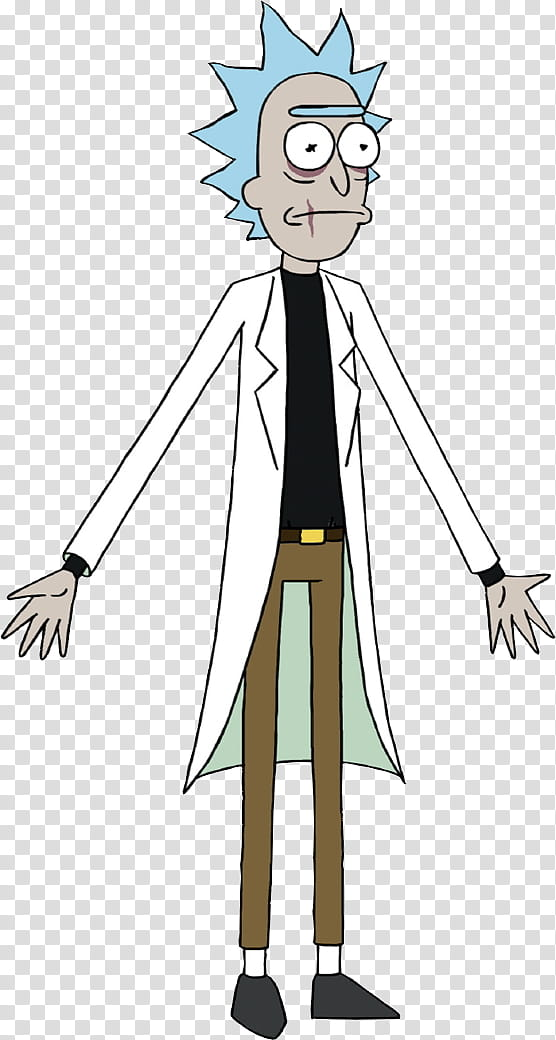
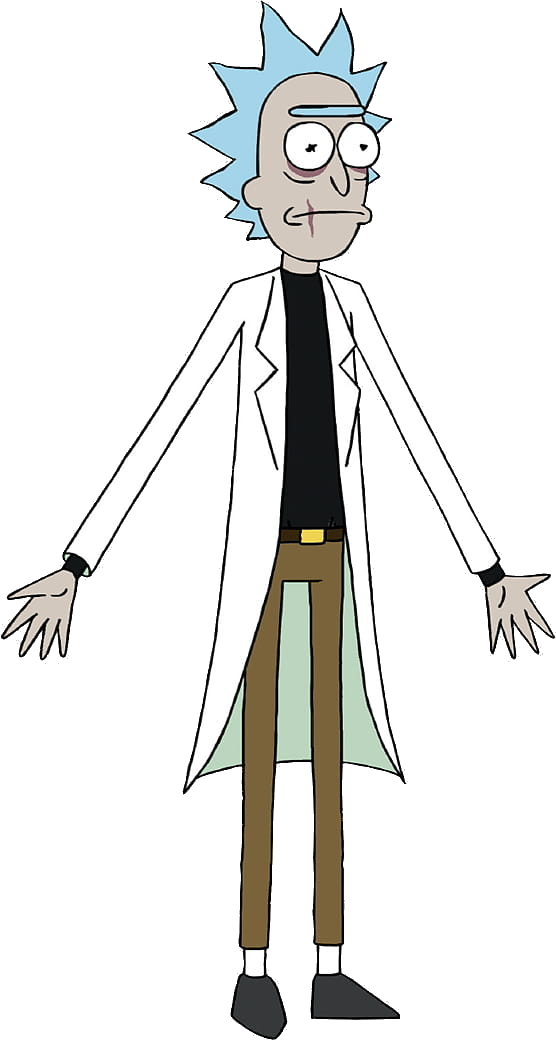
Update skills, Remotion components, and character assets
- Refine script_generator, tts_engine, video_renderer, drive_uploader skills
- Update CharacterOverlay and ParkourBackground Remotion components
- Update remotion.config.ts settings
- Update Rick & Morty character PNGs
- Update topics list
- Ignore remotion/public/audio/ generated audio sessions

diff --git a/remotion/src/components/CharacterOverlay.tsx b/remotion/src/components/CharacterOverlay.tsx
@@ -1,34 +1,12 @@
 import React from "react";
-import {
-  AbsoluteFill,
-  Img,
-  staticFile,
-  useCurrentFrame,
-  useVideoConfig,
-  spring,
-} from "remotion";
+import { AbsoluteFill, Img, staticFile } from "remotion";
 
 interface Props {
   character: "rick" | "morty";
   emotion: string;
 }
 
-export const CharacterOverlay: React.FC<Props> = ({ character, emotion }) => {
-  const frame = useCurrentFrame();
-  const { fps } = useVideoConfig();
-
-  const isTalking = emotion !== "idle";
-
-  // Konuşma bobbing animasyonu
-  const bobY = spring({
-    frame: frame % 12,
-    fps,
-    from: 0,
-    to: isTalking ? -10 : 0,
-    durationInFrames: 6,
-    config: { damping: 8 },
-  });
-
+export const CharacterOverlay: React.FC<Props> = ({ character }) => {
   const imgSrc = staticFile(`characters/${character}.png`);
 
   const isRick = character === "rick";
@@ -36,17 +14,11 @@ export const CharacterOverlay: React.FC<Props> = ({ character, emotion }) => {
   return (
     <AbsoluteFill
       style={{
-        justifyContent: "flex-end",
-        alignItems: "flex-end",
-        flexDirection: "row",
-        bottom: 0,
         top: "auto",
         height: "auto",
-        position: "absolute",
+        bottom: 80,
         left: isRick ? 10 : undefined,
         right: isRick ? undefined : 10,
-        bottom: 80,
-        transform: `translateY(${bobY}px)`,
       }}
     >
       <Img
@@ -54,7 +26,6 @@ export const CharacterOverlay: React.FC<Props> = ({ character, emotion }) => {
         style={{
           height: 700,
           objectFit: "contain",
-          // Morty'yi yatay çevir
           transform: isRick ? "none" : "scaleX(-1)",
         }}
       />

diff --git a/remotion/src/components/ParkourBackground.tsx b/remotion/src/components/ParkourBackground.tsx
@@ -1,22 +1,14 @@
 import React from "react";
-import { AbsoluteFill, Loop, Video, staticFile, useVideoConfig } from "remotion";
-
-// Loop için sabit bir segment uzunluğu (300 frame = 10sn @ 30fps)
-// Asıl footage daha uzunsa sorun yok; daha kısaysa tekrar başlar
-const LOOP_SEGMENT_FRAMES = 300;
+import { AbsoluteFill, Video, staticFile } from "remotion";
 
 export const ParkourBackground: React.FC<{ file: string }> = ({ file }) => {
-  const { durationInFrames } = useVideoConfig();
-
   return (
     <AbsoluteFill>
-      <Loop durationInFrames={LOOP_SEGMENT_FRAMES}>
-        <Video
-          src={staticFile(`footage/${file}`)}
-          style={{ width: "100%", height: "100%", objectFit: "cover" }}
-          durationInFrames={durationInFrames}
-        />
-      </Loop>
+      <Video
+        src={staticFile(`footage/${file}`)}
+        style={{ width: "100%", height: "100%", objectFit: "cover" }}
+        loop
+      />
     </AbsoluteFill>
   );
 };

diff --git a/remotion/remotion.config.ts b/remotion/remotion.config.ts
@@ -1,5 +1,5 @@
 import { Config } from "@remotion/cli/config";
 
-Config.setVideoImageFormat("jpeg");
+Config.setVideoImageFormat("png");
 Config.setOverwriteOutput(true);
 Config.setConcurrency(4);

diff --git a/skills/drive_uploader.py b/skills/drive_uploader.py
@@ -1,18 +1,42 @@
 """
 Drive Uploader — Google Drive'a video yükleme.
-Google Drive Python SDK (google-api-python-client) kullanır.
+Service Account JSON kullanır — tarayıcı açmaz, OAuth gerektirmez.
+
+Kurulum:
+  1. Google Cloud Console → IAM & Admin → Service Accounts → Create
+  2. JSON key indir → service_account.json olarak proje köküne kaydet
+  3. Drive klasörünü service account e-postasıyla paylaş (Editor yetkisi)
 """
 
 import os
 import json
 import argparse
 from pathlib import Path
-from datetime import datetime
 
 from dotenv import load_dotenv
 from loguru import logger
 
 load_dotenv()
+
+SERVICE_ACCOUNT_FILE = Path(__file__).parent.parent / "service_account.json"
+SCOPES = ["https://www.googleapis.com/auth/drive.file"]
+
+
+def _get_service():
+    from googleapiclient.discovery import build
+    from google.oauth2 import service_account
+
+    if not SERVICE_ACCOUNT_FILE.exists():
+        raise FileNotFoundError(
+            f"service_account.json bulunamadı: {SERVICE_ACCOUNT_FILE}\n"
+            "Google Cloud Console → IAM & Admin → Service Accounts → Create → Keys → Add Key → JSON\n"
+            "İndirilen dosyayı service_account.json olarak proje köküne kaydet."
+        )
+
+    creds = service_account.Credentials.from_service_account_file(
+        str(SERVICE_ACCOUNT_FILE), scopes=SCOPES
+    )
+    return build("drive", "v3", credentials=creds)
 
 
 def upload_to_drive(
@@ -24,14 +48,7 @@ def upload_to_drive(
     Videoyu Google Drive'a yükle.
     Dönüş: {"file_id": "...", "web_link": "...", "name": "..."}
     """
-    try:
-        from google.oauth2 import service_account
-        from googleapiclient.discovery import build
-        from googleapiclient.http import MediaFileUpload
-    except ImportError:
-        raise ImportError(
-            "Google Drive SDK eksik. Kur: pip install google-api-python-client google-auth"
-        )
+    from googleapiclient.http import MediaFileUpload
 
     video_path = Path(video_path)
     if not video_path.exists():
@@ -44,15 +61,7 @@ def upload_to_drive(
     if filename is None:
         filename = video_path.name
 
-    # Service account credentials
-    creds_path = os.environ.get("GOOGLE_SERVICE_ACCOUNT_JSON", "service_account.json")
-
-    creds = service_account.Credentials.from_service_account_file(
-        creds_path,
-        scopes=["https://www.googleapis.com/auth/drive.file"],
-    )
-
-    service = build("drive", "v3", credentials=creds)
+    service = _get_service()
 
     file_metadata = {
         "name": filename,
@@ -63,10 +72,11 @@ def upload_to_drive(
         str(video_path),
         mimetype="video/mp4",
         resumable=True,
-        chunksize=5 * 1024 * 1024,  # 5MB chunk
+        chunksize=5 * 1024 * 1024,
     )
 
-    logger.info(f"Drive'a yükleniyor: {filename} ({video_path.stat().st_size / 1024 / 1024:.1f} MB)")
+    size_mb = video_path.stat().st_size / 1024 / 1024
+    logger.info(f"Drive'a yükleniyor: {filename} ({size_mb:.1f} MB)")
 
     request = service.files().create(
         body=file_metadata,

diff --git a/skills/video_renderer.py b/skills/video_renderer.py
@@ -5,7 +5,7 @@ Girdi: TTS ile güncellenmiş script JSON, session ID
 """
 
 import json
-import os
+import math
 import subprocess
 import argparse
 from pathlib import Path
@@ -24,31 +24,30 @@ REMOTION_DIR = BASE_DIR / "remotion"
 FPS = 30
 
 
-def sec_to_frames(sec: float) -> int:
-    return round(sec * FPS)
-
-
 def prepare_props(script: dict, session_id: str) -> dict:
     """Script'e frame bilgilerini ekle, Remotion props JSON'ını hazırla."""
     lines = []
-    cumulative = 0.0
+    cumulative_frames = 0
 
-    # Footage dosyasını otomatik seç
     footage_dir = REMOTION_DIR / "public" / "footage"
     footage_files = list(footage_dir.glob("*.mp4"))
     footage_file = footage_files[0].name if footage_files else "parkour_001.mp4"
 
     for line in script["lines"]:
         updated = dict(line)
-        updated["startFrame"] = sec_to_frames(cumulative)
-        updated["durationFrames"] = sec_to_frames(line["duration"])
-        cumulative += line["duration"]
+        # ceil() ile ses dosyası sonunda kesilmez; tam sayı birikimi ile float kayması olmaz
+        duration_frames = math.ceil(line["duration"] * FPS)
+        updated["startFrame"] = cumulative_frames
+        updated["durationFrames"] = duration_frames
+        cumulative_frames += duration_frames
         lines.append(updated)
+
+    total_duration_sec = cumulative_frames / FPS
 
     return {
         "sessionId": session_id,
         "lines": lines,
-        "totalDurationSec": script["total_duration"],
+        "totalDurationSec": total_duration_sec,
         "footageFile": footage_file,
     }
 
@@ -58,7 +57,7 @@ def render_video(script: dict, session_id: str, output_path: Path = None) -> Pat
         output_path = OUTPUT_VIDEOS_DIR / f"{session_id}.mp4"
 
     props = prepare_props(script, session_id)
-    total_frames = sec_to_frames(props["totalDurationSec"])
+    total_frames = math.ceil(props["totalDurationSec"] * FPS)
 
     props_file = Path(f"/tmp/{session_id}_props.json")
     with open(props_file, "w", encoding="utf-8") as f:
@@ -82,7 +81,7 @@ def render_video(script: dict, session_id: str, output_path: Path = None) -> Pat
 
     logger.debug(f"Komut: {' '.join(cmd)}")
 
-    result = subprocess.run(
+    subprocess.run(
         cmd,
         cwd=str(REMOTION_DIR),
         check=True,

diff --git a/skills/tts_engine.py b/skills/tts_engine.py
@@ -33,13 +33,25 @@ ELEVENLABS_SETTINGS = {
 
 
 def _get_audio_duration(mp3_path: Path) -> float:
-    """MP3 dosyasının süresini mutagen ile okur, yoksa tahmin eder."""
+    """MP3 dosyasının gerçek süresini ffprobe ile okur."""
+    import subprocess as _sp
+    result = _sp.run(
+        [
+            "ffprobe", "-v", "quiet",
+            "-show_entries", "format=duration",
+            "-of", "default=noprint_wrappers=1:nokey=1",
+            str(mp3_path),
+        ],
+        capture_output=True,
+        text=True,
+    )
+    if result.returncode == 0 and result.stdout.strip():
+        return float(result.stdout.strip())
+    # ffprobe başarısız olursa mutagen dene
     try:
         from mutagen.mp3 import MP3
-        audio = MP3(str(mp3_path))
-        return audio.info.length
-    except ImportError:
-        # Mutagen yoksa kelime sayısına göre tahmin et
+        return MP3(str(mp3_path)).info.length
+    except Exception:
         return None
 
 
@@ -69,9 +81,9 @@ def synthesize_line(
 
     duration = _get_audio_duration(output_path)
     if duration is None:
-        # Tahmin: kelime başına ~0.4 saniye
-        duration = len(text.split()) * 0.4
-        logger.warning(f"mutagen yok, süre tahmin edildi: {duration:.2f}sn")
+        # Son çare: kelime başına ~0.5 saniye (ElevenLabs için daha gerçekçi)
+        duration = len(text.split()) * 0.5
+        logger.warning(f"ffprobe/mutagen başarısız, süre tahmin edildi: {duration:.2f}sn")
 
     logger.debug(f"  {output_path.name} → {duration:.2f}sn")
     return duration

diff --git a/skills/script_generator.py b/skills/script_generator.py
@@ -32,7 +32,7 @@ Kurallar:
 - Rick her şeyi bilir, keskin, alaycı ve zeki; "Morty" kelimesini sık kullanır
 - Morty meraklı, biraz şaşkın ama sevimli
 - Her replik maksimum 12 kelime (altyazıya sığsın)
-- Toplam 30-55 saniye arası olmalı
+- Toplam 45-58 saniye arası olmalı
 - Her replik için tahmini konuşma süresi saniye cinsinden hesapla (yaklaşık: kelime_sayısı × 0.4)
 - emotion değeri: "explain", "excited", "sarcastic", "confused", "shocked", "happy" birinden biri olmalı
 
@@ -53,7 +53,7 @@ Yanıtını SADECE aşağıdaki JSON formatında döndür, başka hiçbir şey y
 USER_PROMPT_TEMPLATE = """Konu: {topic}
 
 Rick ve Morty bu konuyu kısa bir YouTube Shorts videosunda ele alıyor. Türkçe yaz.
-Toplam 6-10 replik, 30-55 saniye arası."""
+Toplam 8-12 replik, 45-58 saniye arası."""
 
 
 def generate_script(topic: str = None, pdf_path: str = None) -> dict:
@@ -100,7 +100,7 @@ def _validate_script(script: dict):
     assert "title" in script, "title eksik"
     assert "lines" in script and len(script["lines"]) > 0, "lines boş"
     assert "total_duration" in script, "total_duration eksik"
-    assert 25 <= script["total_duration"] <= 60, f"Süre uygunsuz: {script['total_duration']}sn"
+    assert 40 <= script["total_duration"] <= 60, f"Süre uygunsuz: {script['total_duration']}sn"
     for i, line in enumerate(script["lines"]):
         assert line.get("character") in ("rick", "morty"), f"Satır {i}: geçersiz karakter"
         assert line.get("text"), f"Satır {i}: metin boş"
